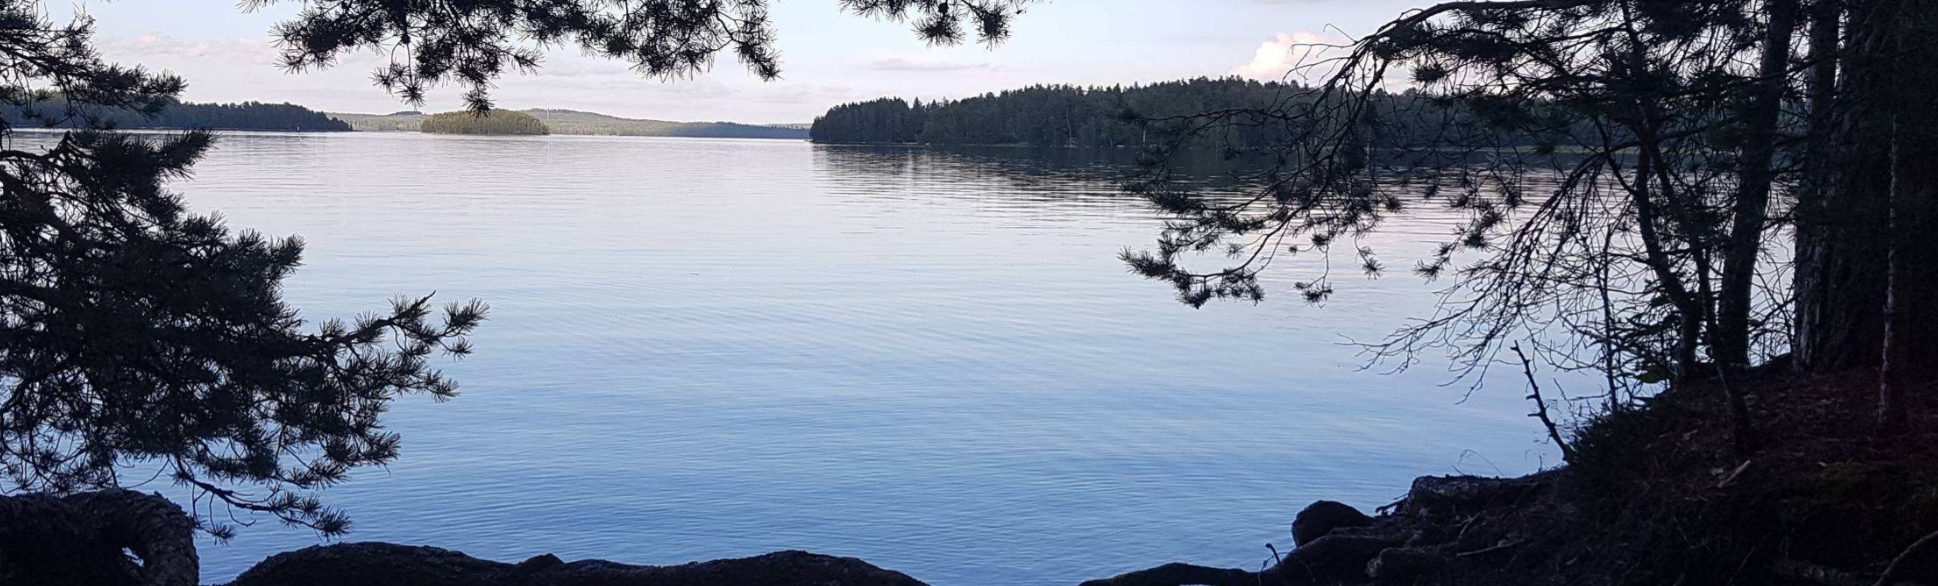
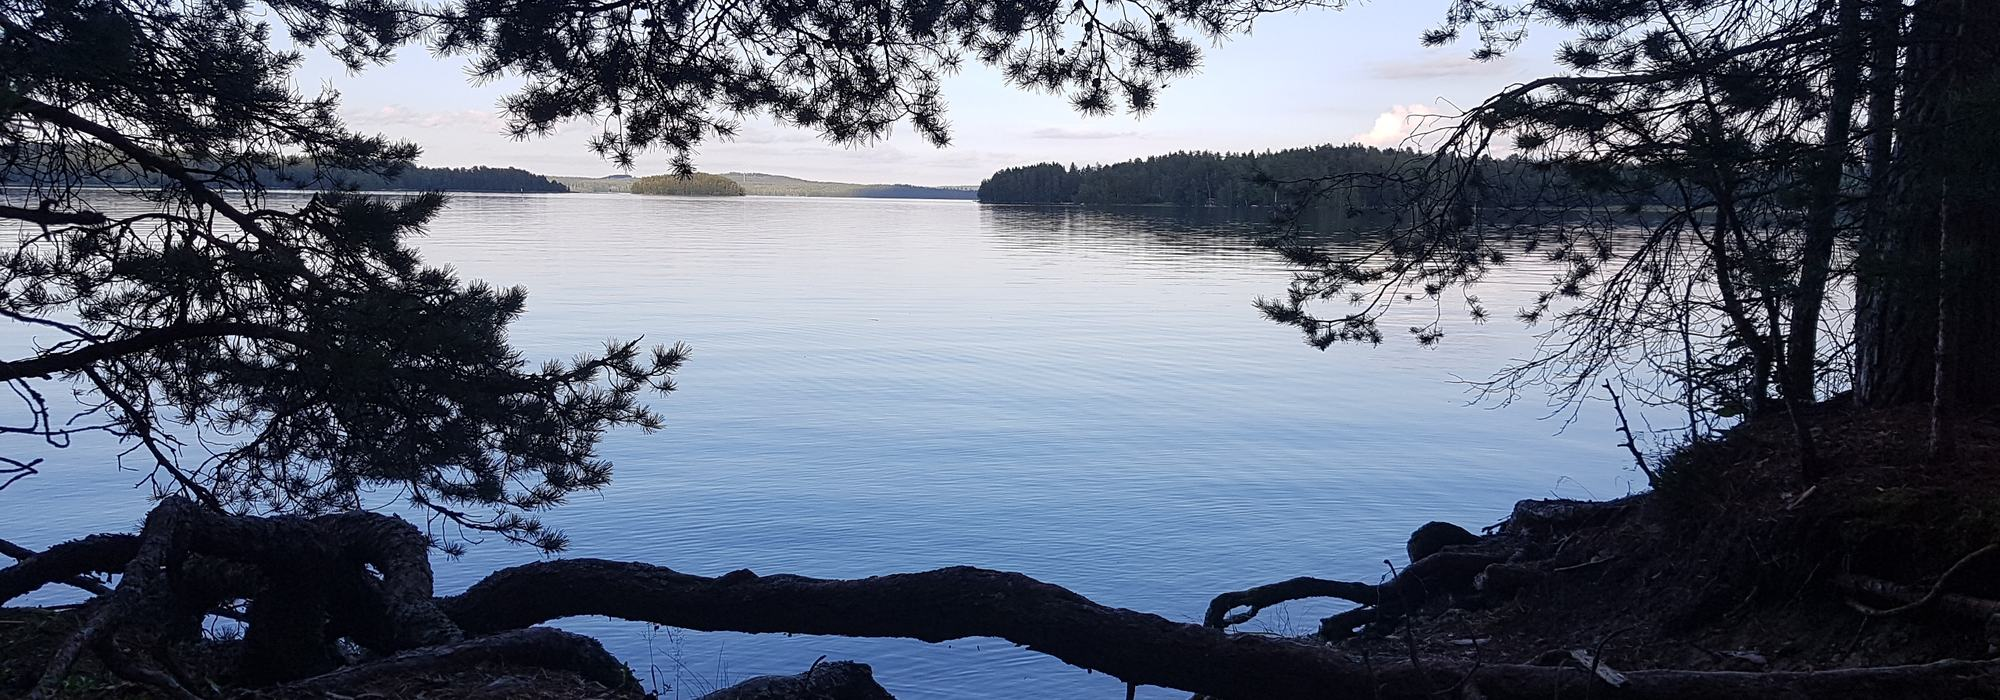
Etusivun hero: männyt ja järvi ilman tummennusta, metsä valikon takana
Kuva skaalataan ja siirretään leveyden mukaan niin, että kaukaisen rannan
metsä osuu valikon (mobiilissa valikkokuvakkeen) taakse. Valikon kontrasti
7,9-10,1:1 leveyksillä 320-2560 px; kuva peittää heron kaikilla
leveyksillä 320-3440 px.

diff --git a/style.css b/style.css
@@ -252,22 +252,29 @@ a {
    HUOM gradientin pikselirajat: margin-top -76px nostaa laatikon yläreunan
    76px näkyvän alueen yläpuolelle, ja yläpalkki peittää seuraavat 76px.
    Laatikon kohta 152px on siis vasta se kohta jossa kuva alkaa näkyä.
-   Siksi tumma kaista on kohdassa 76-152px — navigaation takana. Männyt ja
-   järvi -kuvan taivas on vaalea: ilman kaistaa valikko 1,0-1,5:1, varjo
-   pelkän valikon takana 3,4-6,0:1, kaista 0,70 -> 5,2-7,1:1. */
+   Navigaatio on siis näkyvällä rivillä 0-76px eli laatikon rivillä 76-152px. */
 .hero {
-  /* Männyt ja järvi. Kuvan yläreuna kiinnitetään näkyvän alueen yläreunaan
-     (76px, heron yläreuna on sen verran näkyvän alueen yläpuolella), jotta
-     oksat, saaret ja vesi näkyvät; alareunan juurakko rajautuu leveällä
-     ruudulla pois. Leveys vähintään sen verran, että kuva täyttää näkyvän
-     260px korkeuden (260 * 1938/586 = 860px). */
-  background:
-    linear-gradient(180deg,
-      rgba(9, 25, 41, 0) 0,
-      rgba(9, 25, 41, 0.70) 76px,
-      rgba(9, 25, 41, 0.62) 152px,
-      rgba(9, 25, 41, 0) 240px),
-    var(--img-hero) center 76px / max(100%, 860px) auto no-repeat;
+  /* Männyt ja järvi ilman tummennusta. Kuvassa ainoa valikkorivin kokoinen
+     yhtenäisen tumma alue on kaukaisen rannan metsä (kuvatiedostossa
+     x 1150-1680 / 2000, keskikohta x 1415 = 0,7075 ja y 180 = 0,09
+     leveydestä). Kuva skaalataan ja siirretään niin, että metsä osuu
+     jokaisella leveydellä valikon taakse:
+       --nav-c   valikon keskikohta (containerin oikea reuna - 135px)
+       --hero-w  kuvan leveys: vähintään 1400px
+                 (metsäkaista 0,265w; 1200px:llä "Yhteystiedot" jäi reunalle
+                 3,6:1, 1400px:llä kaista 370px > valikko ~270px) ja niin leveä,
+                 ettei kumpaankaan reunaan jää aukkoa (vasen: x-siirto <= 0,
+                 oikea: (1 - 0,7075) * leveys >= ruudun leveys - --nav-c)
+     Pystysuunnassa metsä valikkotekstin keskelle: näkyvä y 37px = laatikon
+     113px (heron yläreuna on 76px näkyvän alueen yläpuolella).
+     Tiedosto on rajattu alkuperäisestä (20200807_193516.jpg) riveille
+     120-820 / 2000-mittakaavassa; muut rivit eivät näy millään leveydellä. */
+  --nav-c: calc(100vw - (100vw - min(92vw, var(--container))) / 2 - 135px);
+  --hero-w: max(1400px, calc(var(--nav-c) / 0.7075), calc((100vw - var(--nav-c)) / 0.2925));
+  background: var(--img-hero)
+    calc(var(--nav-c) - 0.7075 * var(--hero-w))
+    calc(113px - 0.09 * var(--hero-w))
+    / var(--hero-w) auto no-repeat;
   color: #fff;
   /* 25 % matalampi kuin alasivujen herot (näkyvissä 260px, loput 76px jää
      näkyvän alueen yläpuolelle). */
@@ -1256,10 +1263,12 @@ a {
 }
 
 @media (max-width: 760px) {
-  /* Varjo valikkokuvakkeen taakse */
+  /* Metsä valikkokuvakkeen taakse; kuvake on kapea, joten 1400px:n
+     vähimmäisleveyttä ei tarvita. 900px pitää kuvan alareunan heron
+     alareunan alapuolella (113 - 0,09w + 0,35w >= 336). */
   .hero {
-    --nav-center: 22px;
-    --nav-shadow-w: 90px;
+    --nav-c: calc(100vw - 4vw - 22px);
+    --hero-w: max(900px, calc(var(--nav-c) / 0.7075), calc((100vw - var(--nav-c)) / 0.2925));
   }
 
   .nav-toggle {
